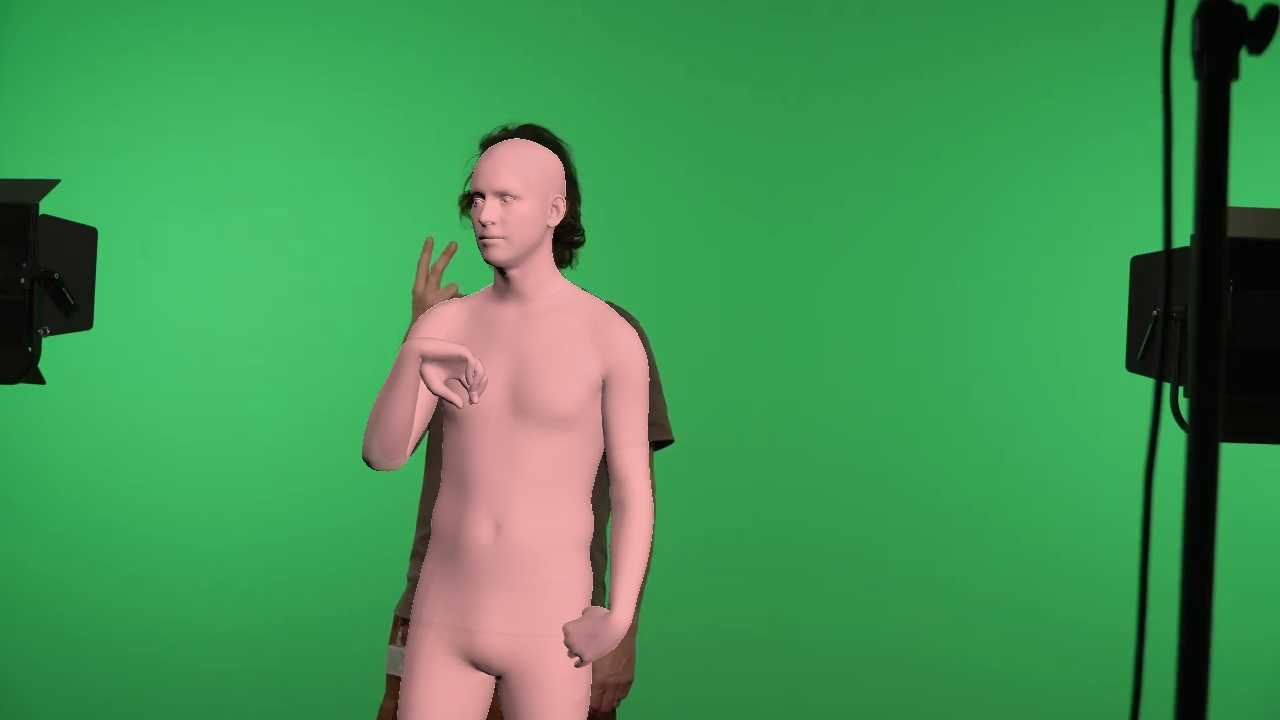
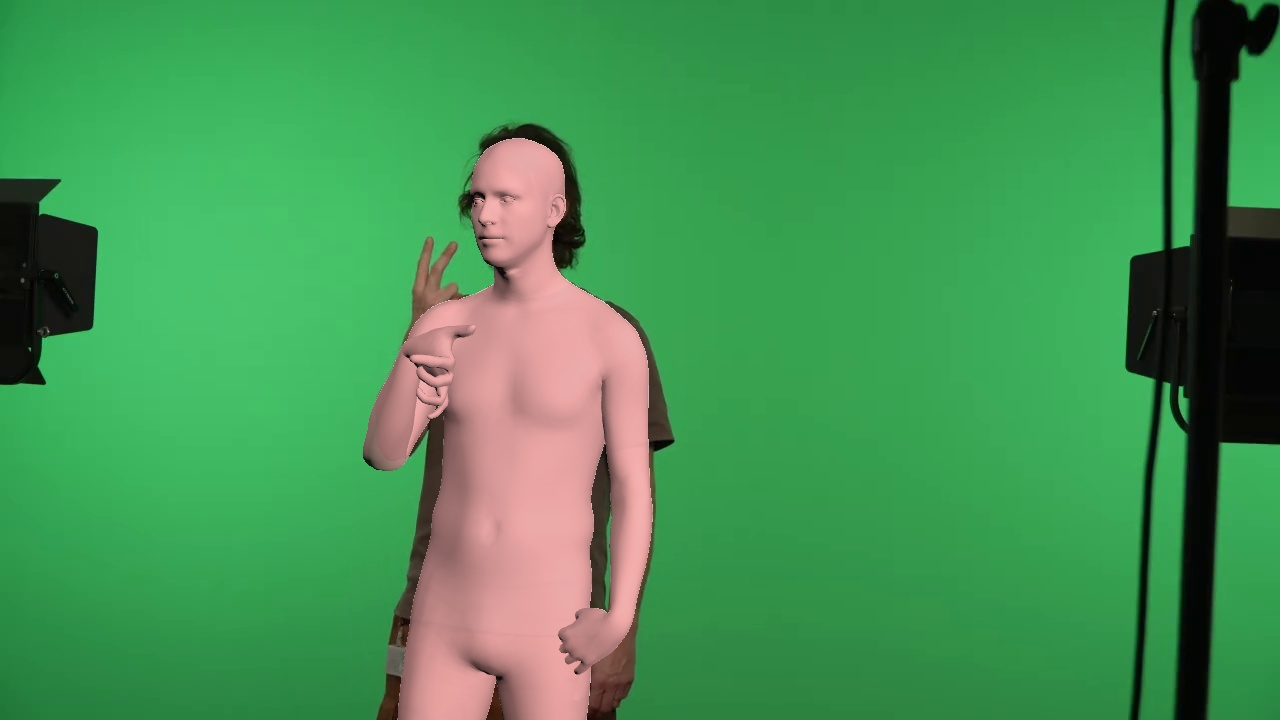
trying some 3d loss as well

Changed region(s): [[0.3125, 0.4278, 0.375, 0.5806], [0.4375, 0.825, 0.4688, 0.9472], [0.2812, 0.6111, 0.3125, 0.6417]]

diff --git a/CamSMPLifyX/hand_smplifyx.py b/CamSMPLifyX/hand_smplifyx.py
@@ -5,30 +5,21 @@ import numpy as np
 class HandOptimizer:
     def __init__(self, model_path, device=torch.device("cuda")):
         self.device = device
-        # Load MANO models for both hands
+        # Stage 0: Load MANO with 12 PCA components for biomechanical limits
+        self.num_pca = 12
         self.models = {
-            'left': smplx.create(model_path, model_type='mano', is_rhand=False, use_pca=False, flat_hand_mean=True).to(device),
-            'right': smplx.create(model_path, model_type='mano', is_rhand=True, use_pca=False, flat_hand_mean=True).to(device)
+            'left': smplx.create(model_path, model_type='mano', is_rhand=False, 
+                                 use_pca=True, num_pca_comps=self.num_pca, flat_hand_mean=True).to(device),
+            'right': smplx.create(model_path, model_type='mano', is_rhand=True, 
+                                  use_pca=True, num_pca_comps=self.num_pca, flat_hand_mean=True).to(device)
         }
         
-        # Vertex indices for fingertips (standard MANO mesh)
-        self.FINGER_TIPS_V_IDS = [745, 317, 444, 556, 673] # Thumb, Index, Middle, Ring, Pinky
-        
-        # MediaPipe order mapping to MANO joints
-        # Index >= 0 refers to Joint ID; Index < 0 refers to fingertip vertex index
-        self.MP_TO_MANO_MAP = [
-            0,                      # Wrist
-            13, 14, 15, -1,         # Thumb
-            1, 2, 3, -2,            # Index
-            4, 5, 6, -3,            # Middle
-            10, 11, 12, -4,         # Ring
-            7, 8, 9, -5              # Pinky
-        ]
+        self.FINGER_TIPS_V_IDS = [745, 317, 444, 556, 673]
+        self.MP_TO_MANO_MAP = [0, 13, 14, 15, -1, 1, 2, 3, -2, 4, 5, 6, -3, 10, 11, 12, -4, 7, 8, 9, -5]
 
     def get_mano_landmarks(self, output):
-        """Extracts 21 landmarks to match MediaPipe sequence."""
-        joints = output.joints  # (1, 16, 3)
-        verts = output.vertices # (1, 778, 3)
+        joints = output.joints 
+        verts = output.vertices
         landmarks = []
         for idx in self.MP_TO_MANO_MAP:
             if idx >= 0:
@@ -36,58 +27,103 @@ class HandOptimizer:
             else:
                 v_idx = self.FINGER_TIPS_V_IDS[abs(idx) - 1]
                 landmarks.append(verts[:, v_idx, :])
-        return torch.stack(landmarks, dim=1) # (1, 21, 3)
+        return torch.stack(landmarks, dim=1)
 
     def perspective_projection(self, points, translation, cam_intrinsics):
-        """Standard projection as used in cam_smplifyx.py."""
         K = cam_intrinsics
-        # points: (1, 21, 3), translation: (1, 3)
-        points_translated = points + translation.view(1, 1, 3) # (1, 21, 3)
+        points_translated = points + translation.view(1, 1, 3)
         projected_points = points_translated / points_translated[:, :, -1].unsqueeze(-1)
-        # Apply intrinsics K    
         projected_points = torch.einsum("bij,bkj->bki", K, projected_points.float())
-        return projected_points[:, :, :2] # Return (1, 21, 2) pixels
+        return projected_points[:, :, :2]
 
     def refine(self, target_mp, init_pose, init_shape, cam_int, cam_t, is_left=True):
-        """Optimizes hand pose to match MediaPipe 2D landmarks."""
         side = 'left' if is_left else 'right'
         model = self.models[side]
-        
-        # Target: (21, 2) pixels
         target_2d = target_mp[:, :, :2].detach().to(self.device) 
+        target_3d = target_mp.detach().to(self.device)
         
-        cam_int = cam_int.detach()
-        cam_t = cam_t.detach()
-        init_pose = init_pose.detach()
-        
-        # Optimize Wrist (Index 0) + Fingers (Index 1-15)
-        hand_full_pose = init_pose.clone().reshape(1, -1).detach().requires_grad_(True)
+        # 1. Variables: Wrist (3D) and Fingers (12D PCA)
+        # init_pose is (1, 16, 3); index 0 is the wrist
+        wrist_pose = init_pose[:, 0, :].clone().detach().requires_grad_(True)
+        hand_pca = torch.zeros([1, self.num_pca], device=self.device, requires_grad=True)
         shape = init_shape.clone().detach().requires_grad_(True)
         
-        optimizer = torch.optim.Adam([hand_full_pose, shape], lr=0.01)
+        # Store original wrist for strong regularization
+        orig_wrist = init_pose[:, 0, :].clone().detach()
 
-        for i in range(150):
-            optimizer.zero_grad()
+        # --- STAGE 1: Align Wrist Only (100 iterations) ---
+        # We lock fingers in a neutral state to prevent the "broken wrist" artifact
+        
+        initial_estimate = []
+        final_estimate = []
+        
+        opt_s1 = torch.optim.Adam([wrist_pose], lr=0.01)
+        for i in range(100):
+            opt_s1.zero_grad()
+            output = model(hand_pose=hand_pca, global_orient=wrist_pose, betas=shape)
+            loss_2d = torch.mean((self.perspective_projection(self.get_mano_landmarks(output), cam_t, cam_int) - target_2d)**2)
+            if i == 0:
+                initial_estimate = self.get_mano_landmarks(output).detach().cpu().numpy()
+            loss_wrist_reg = torch.mean((wrist_pose - orig_wrist)**2) * 50.0 # High weight
+            (loss_2d + loss_wrist_reg).backward()
+            opt_s1.step()
+
+        # --- STAGE 2: Articulate Fingers (150 iterations) ---
+        # Lock the wrist aligned in Stage 1, now solve for the "V" shape/gesture
+        opt_s2 = torch.optim.Adam([hand_pca], lr=0.01)
+        for _ in range(150):
+            opt_s2.zero_grad()
+            output = model(hand_pose=hand_pca, global_orient=wrist_pose, betas=shape)
+            loss_2d = torch.mean((self.perspective_projection(self.get_mano_landmarks(output), cam_t, cam_int) - target_2d)**2)
+            loss_wrist_reg = torch.mean((wrist_pose - orig_wrist)**2) * 50.0 # Keep wrist stable
+            loss_pca_prior = torch.mean(hand_pca**2) * 0.5 # Keeps fingers natural
+            mano_3d = self.get_mano_landmarks(output)
+            root_mano = mano_3d[:, 0:1, :]
+            rel_mano_3d = mano_3d - root_mano
+            root_target = target_3d[:, 0:1, :]
+            rel_target_3d = target_3d - root_target
+            scale_mano = torch.norm(rel_mano_3d[:, 9, :], dim=-1, keepdim=True).unsqueeze(-1)
+            scale_target = torch.norm(rel_target_3d[:, 9, :], dim=-1, keepdim=True).unsqueeze(-1)
+            norm_mano_3d = rel_mano_3d / (scale_mano + 1e-6)
+            norm_target_3d = rel_target_3d / (scale_target + 1e-6)
+            loss_3d_pose = torch.mean((norm_mano_3d - norm_target_3d)**2)
+            weight_3d = 5000.0
+            (loss_2d + loss_wrist_reg + loss_pca_prior + weight_3d * loss_3d_pose).backward()
+            opt_s2.step()
+
+        # --- STAGE 3: Joint Fine-Tuning (100 iterations) ---
+        # Minor adjustments to everything at a lower learning rate
+        opt_s3 = torch.optim.Adam([wrist_pose, hand_pca, shape], lr=0.001)
+        for i in range(100):
+            opt_s3.zero_grad()
+            output = model(hand_pose=hand_pca, global_orient=wrist_pose, betas=shape)
+            loss_2d = torch.mean((self.perspective_projection(self.get_mano_landmarks(output), cam_t, cam_int) - target_2d)**2)
+            if i == 99:
+                final_estimate = self.get_mano_landmarks(output).detach().cpu().numpy()
+            loss_wrist_reg = torch.mean((wrist_pose - orig_wrist)**2) * 20.0
+            loss_pca_prior = torch.mean(hand_pca**2) * 0.2
+            mano_3d = self.get_mano_landmarks(output)
+            root_mano = mano_3d[:, 0:1, :]
+            rel_mano_3d = mano_3d - root_mano
+            root_target = target_3d[:, 0:1, :]
+            rel_target_3d = target_3d - root_target
+            scale_mano = torch.norm(rel_mano_3d[:, 9, :], dim=-1, keepdim=True).unsqueeze(-1)
+            scale_target = torch.norm(rel_target_3d[:, 9, :], dim=-1, keepdim=True).unsqueeze(-1)
+            norm_mano_3d = rel_mano_3d / (scale_mano + 1e-6)
+            norm_target_3d = rel_target_3d / (scale_target + 1e-6)
+            loss_3d_pose = torch.mean((norm_mano_3d - norm_target_3d)**2)
+            weight_3d = 10.0
+            (loss_2d + loss_wrist_reg + loss_pca_prior + weight_3d * loss_3d_pose).backward()
+            opt_s3.step()
             
-            # Forward pass: full_pose (1, 16, 3) -> 1 wrist + 15 fingers
-            # hand_pose = hand_full_pose[:, 1:]  # Fingers
-            # hand_pose = hand_pose.reshape(1, 15*3)  # Flatten fingers
-            # global_orient = hand_full_pose[:, :1]  # Wrist
-            # global_orient = global_orient.reshape(1, 3)  # Flatten wrist
-            output = model(hand_pose=hand_full_pose[:, 3:], global_orient=hand_full_pose[:, :3], betas=shape)
-            landmarks_3d = self.get_mano_landmarks(output)
             
-            # Project to pixel space
-            landmarks_2d = self.perspective_projection(landmarks_3d, cam_t, cam_int)
-            
-            # Loss: Euclidean distance in pixels
-            loss_2d = torch.mean((landmarks_2d - target_2d)**2)
-            
-            # Regularization: Keep pose close to initial estimate
-            loss_reg = torch.mean((hand_full_pose - init_pose.reshape(1, -1))**2) * 0.1
-            
-            total_loss = loss_2d + loss_reg
-            total_loss.backward()
-            optimizer.step()
-            
-        return hand_full_pose.detach(), shape.detach()
+        print("Loss between initial and final 2D projections:", np.linalg.norm(initial_estimate - final_estimate))
+        print("Loss between initial and target 2D projection:", np.linalg.norm(initial_estimate - target_3d.detach().cpu().numpy()))
+        print("Loss between final 2D projection and target:", np.linalg.norm(final_estimate - target_3d.detach().cpu().numpy()))
+
+        # Convert PCA back to raw 15-joint angles for compatibility with optimize.py
+        final_output = model(hand_pose=hand_pca, global_orient=wrist_pose, betas=shape)
+        # Concatenate optimized wrist + decoded finger joints
+        full_pose = torch.cat([wrist_pose, final_output.hand_pose], dim=1)
+        
+        return full_pose.detach(), shape.detach()
